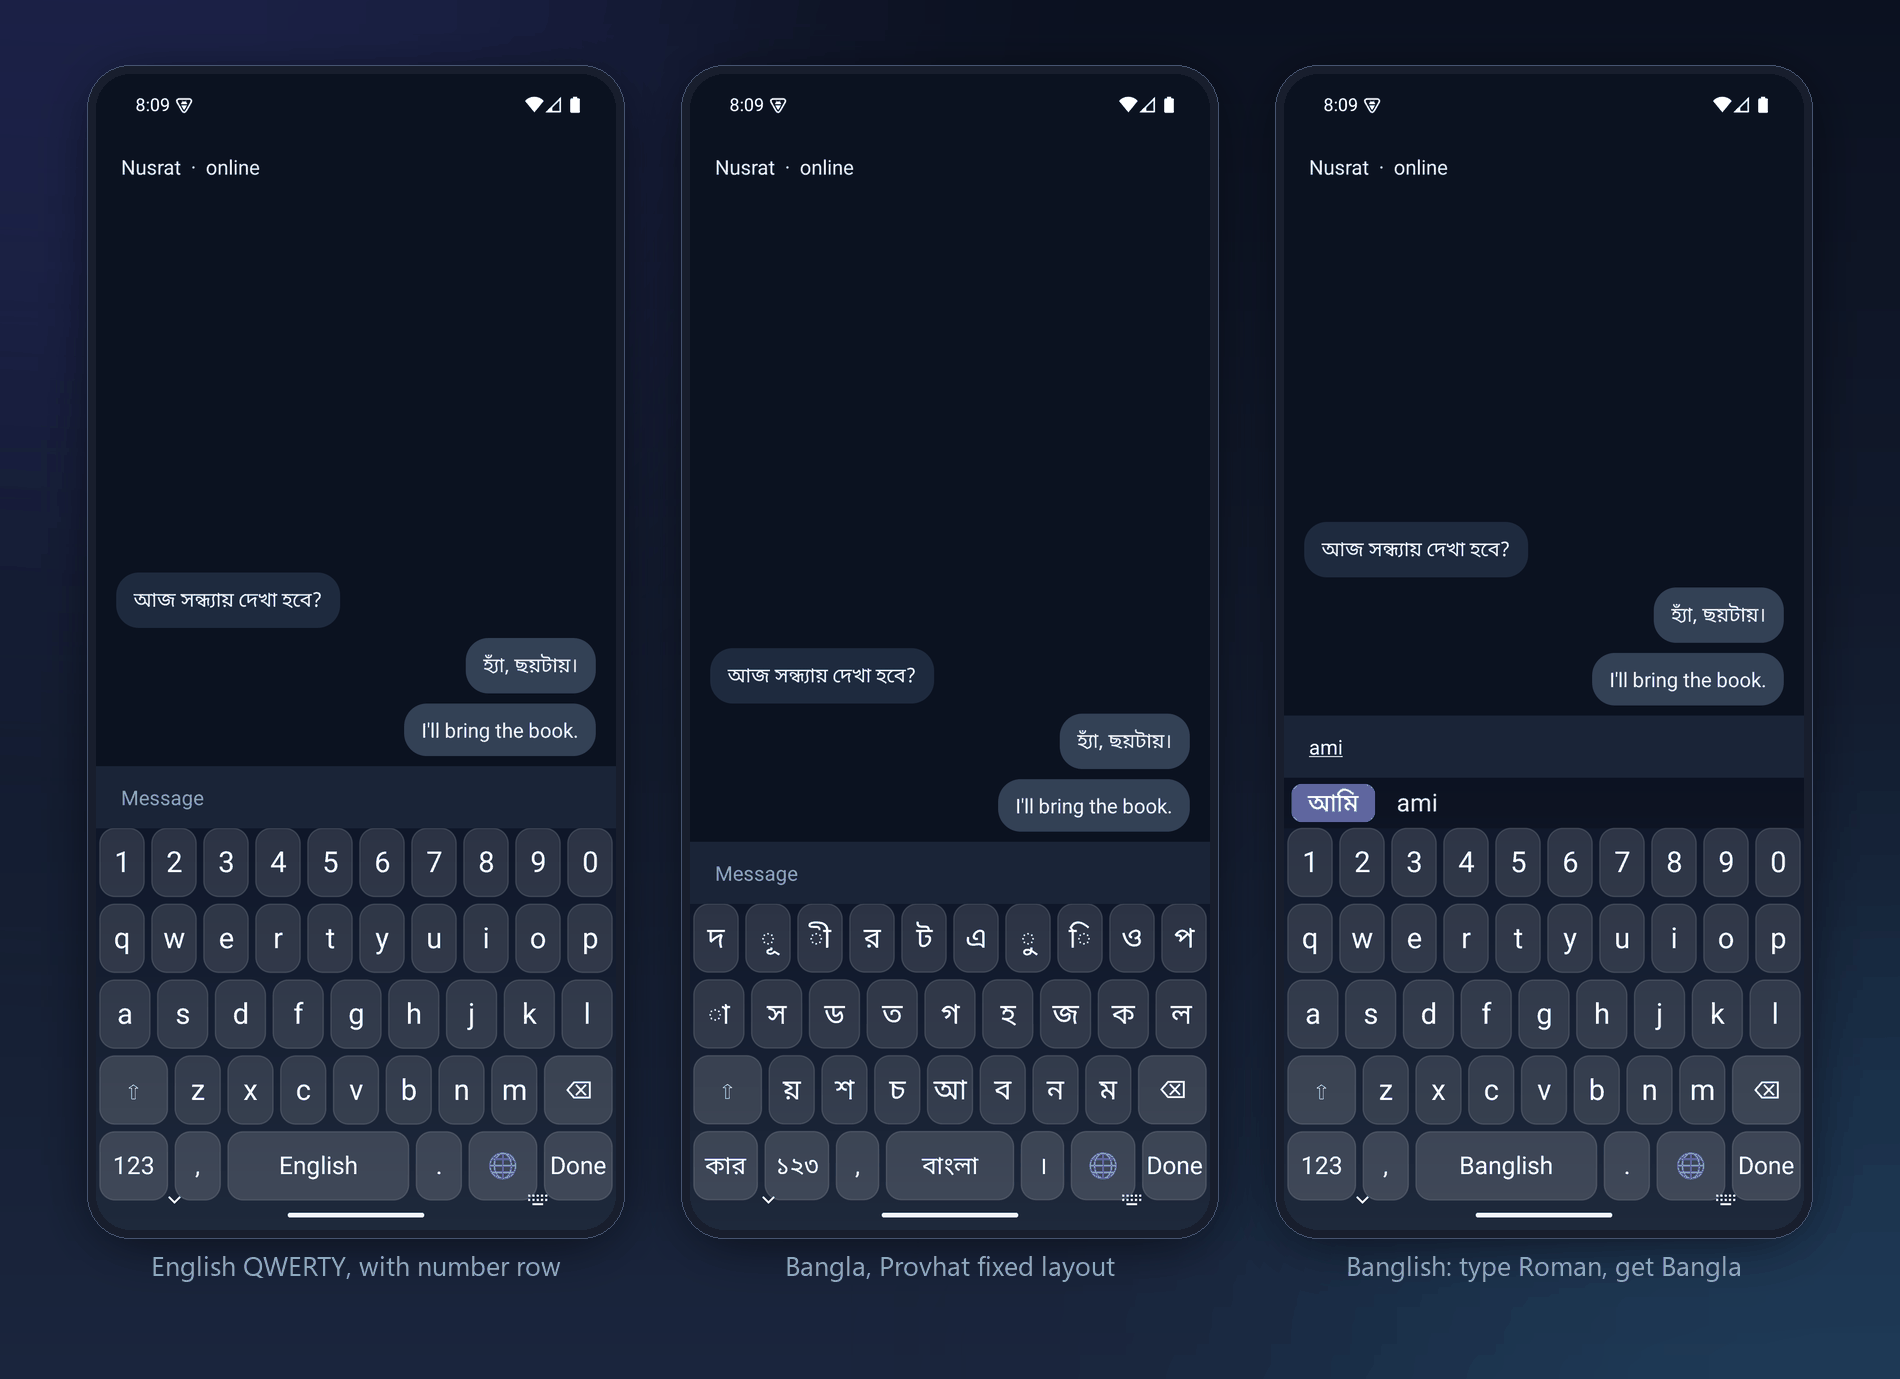
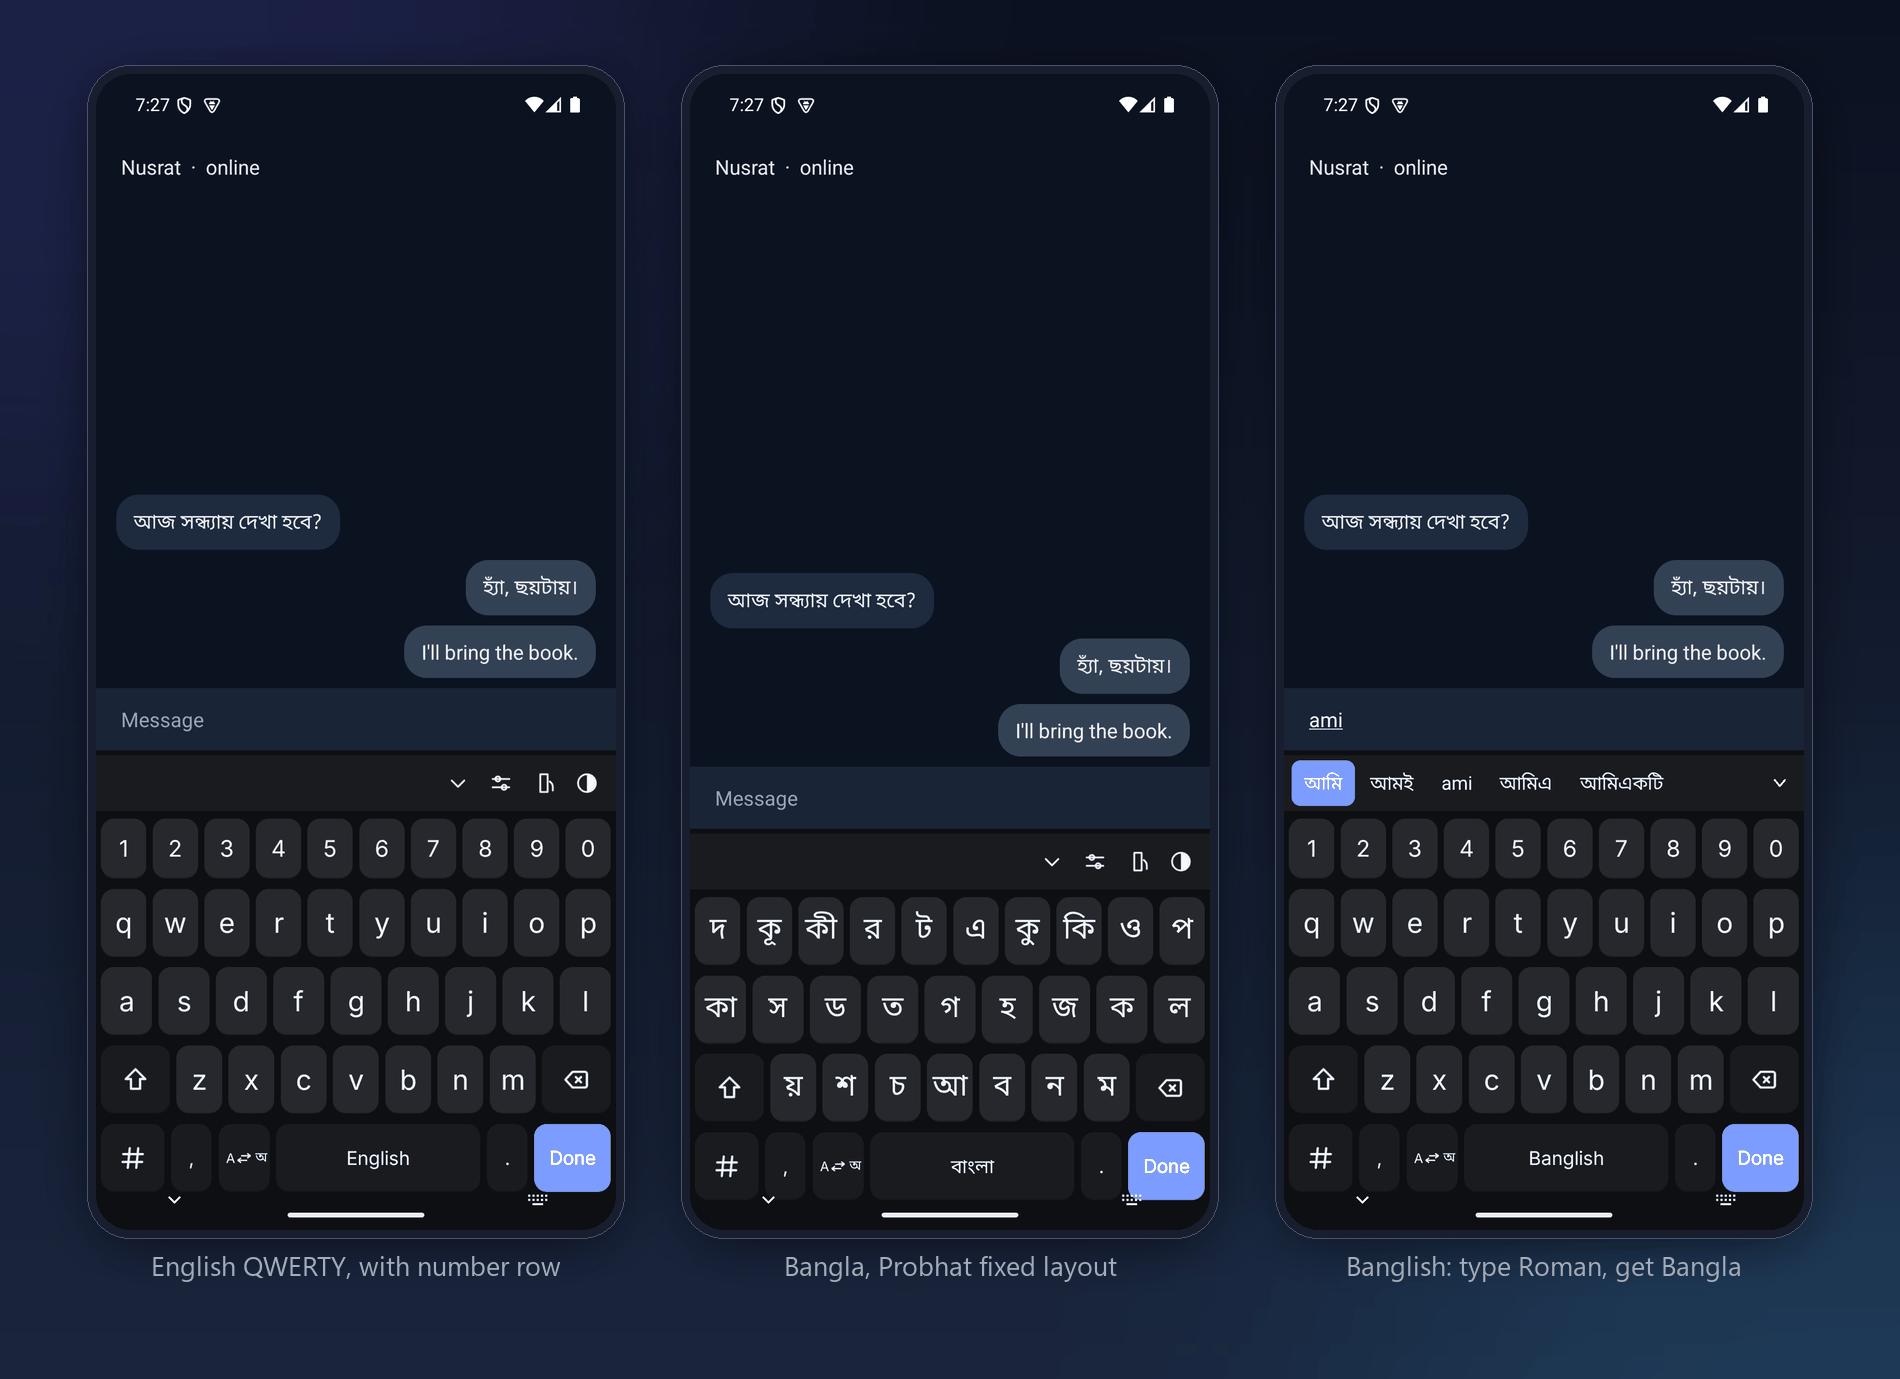
docs: describe Banglish v2 and the thirteen-theme gallery
README said twenty-four themes from AMOLED Black to Rose Gold, a set replaced in 0.3.0; the screenshot table also pointed at a duplicate onboarding capture and two 0.2.0 images. Rebuilt the composites from the current captures, documented the shipped word list, and updated the screenshot script to the current theme names.

diff --git a/scripts/compose_screenshots.py b/scripts/compose_screenshots.py
@@ -11,7 +11,7 @@ Outputs : docs/screenshots/composite-languages.png
 
 Captions are English only on purpose: Pillow has no HarfBuzz shaping here (`raqm` is
 missing), so Bengali drawn into a caption would break its conjuncts. The Bengali in the
-screenshots themselves is real, shaped by the browser.
+screenshots themselves is real, shaped by Android.
 """
 
 import pathlib
@@ -165,12 +165,12 @@ def social_preview(out_name="social-preview.png"):
               font=font("regular", 27), fill=(198, 208, 226))
     draw.text((118, 222), "for Bangla, Banglish and English.",
               font=font("regular", 27), fill=(198, 208, 226))
-    draw.text((118, 276), "English QWERTY  ·  Bangla (Provhat)  ·  Banglish input",
+    draw.text((118, 276), "English QWERTY  ·  Bangla (Probhat)  ·  Banglish input",
               font=font("regular", 21), fill=MUTED)
 
     for index, line in enumerate([
         "No internet permission — nothing leaves your device",
-        "24 themes, each checked for 4.5:1 contrast",
+        "13 themes, each checked for 4.5:1 contrast",
         "Open source, MIT licensed",
     ]):
         y = 336 + index * 38
@@ -178,7 +178,7 @@ def social_preview(out_name="social-preview.png"):
         draw.text((142, y), line, font=font("regular", 21), fill=(214, 222, 236))
 
     # Two phones, the lighter one behind so it reads as a pair.
-    back = load("07-pure-light")
+    back = load("themes/t-studio_light")
     front = load("03-banglish")
     place_phone(canvas, back, 792, 150, 212, radius=24, bezel=6)
     place_phone(canvas, front, 986, 118, 212, radius=24, bezel=6)
@@ -196,19 +196,21 @@ def main():
     written.append(composite(
         ["01-english", "02-bangla", "03-banglish"],
         ["English QWERTY, with number row",
-         "Bangla, Provhat fixed layout",
+         "Bangla, Probhat fixed layout",
          "Banglish: type Roman, get Bangla"],
         "composite-languages.png", cols=3, phone_width=520))
 
     written.append(composite(
-        ["01-english", "09-aurora", "07-pure-light", "08-lava"],
-        ["Midnight Glass (default)", "Aurora Borealis", "Pure Light", "Lava"],
+        ["themes/t-studio_light", "themes/t-aurora", "themes/t-tokyo_night",
+         "themes/t-pixel_arcade"],
+        ["Studio Light", "Aurora", "Tokyo Night", "Pixel Arcade"],
         "composite-themes.png", cols=4, phone_width=400,
-        title="Four of the twenty-four built-in themes"))
+        title="Four of the thirteen built-in themes"))
 
     written.append(composite(
-        ["04-settings", "05-themes", "06-theme-dialog"],
-        ["Settings", "Twenty-four themes, live preview", "Duplicate, export or apply"],
+        ["00-onboarding", "05-themes", "04-candidates"],
+        ["Three-step onboarding", "Thirteen themes, live preview",
+         "Ranked candidates, full panel"],
         "composite-settings.png", cols=3, phone_width=520))
 
     written.append(social_preview())

diff --git a/README.md b/README.md
@@ -20,9 +20,10 @@ people who know the letters, and a phonetic Banglish mode for people who think i
 letters — `ami` becomes আমি. English is one tap away, and every language can be switched
 off individually.
 
-**Themes that look designed, not defaulted.** Twenty-four built-in themes, from AMOLED Black to
-Rose Gold, each checked against a 4.5:1 contrast floor on the actual composited key colour.
-Themes are plain JSON, so you can write your own and share it.
+**Themes that look designed, not defaulted.** Thirteen built-in themes, from Studio Light to
+Pixel Arcade, each checked against a 4.5:1 contrast floor on the actual composited key colour.
+The picker shows a live keyboard preview of every one, and themes are plain JSON, so you can
+write your own and share it.
 
 **Private by design.** The app has no `INTERNET` permission, no analytics, no ads and no
 tracking libraries. Not "we promise not to look" — the operating system prevents the app
@@ -34,15 +35,15 @@ from making a connection at all. See [PRIVACY.md](PRIVACY.md).
 
 | English | Bangla | Banglish |
 |:---:|:---:|:---:|
-| ![English QWERTY with number row](docs/screenshots/01-english.png) | ![Bangla Provhat layout](docs/screenshots/02-bangla.png) | ![Banglish with Bangla suggestions](docs/screenshots/03-banglish.png) |
-| Number row, glass keys | Probhat fixed layout | Type Roman, get Bangla |
+| ![English QWERTY with number row](docs/screenshots/01-english.png) | ![Bangla Probhat layout](docs/screenshots/02-bangla.png) | ![Banglish with Bangla suggestions](docs/screenshots/03-banglish.png) |
+| Number row, Studio Dark | Probhat fixed layout | Type Roman, get Bangla |
 
-![Four of the twenty-four built-in themes](docs/screenshots/composite-themes.png)
+![Four of the thirteen built-in themes](docs/screenshots/composite-themes.png)
 
-| Settings | Theme picker | Theme actions |
+| Onboarding | Themes | All candidates |
 |:---:|:---:|:---:|
-| ![Settings](docs/screenshots/04-settings.png) | ![Theme picker](docs/screenshots/05-themes.png) | ![Theme dialog](docs/screenshots/06-theme-dialog.png) |
-| Languages, theme, typing | Twenty-four themes, live preview | Duplicate, export or apply |
+| ![Three-step onboarding](docs/screenshots/00-onboarding.png) | ![Theme picker](docs/screenshots/05-themes.png) | ![Expanded suggestion panel](docs/screenshots/04-candidates.png) |
+| Three setup steps | Thirteen themes, live preview | Ranked candidates, full panel |
 
 Every image above is a real capture: the debug build running on Android 15, photographed with
 `adb exec-out screencap` while the keyboard was the active input method, in a debug-only demo
@@ -61,9 +62,11 @@ and `scripts/compose_screenshots.py` builds the composites.
 - **Long-press accents.** Hold a vowel for é è ê ë, and digits for `!@#$%` and friends.
 - **Bangla composing.** Kar signs, hasanta joining and one-unit backspace that removes a
   base letter together with its kar.
-- **Suggestion bar** with the Bangla candidate first, the Roman text second, and a tap to
-  commit either.
-- **Twenty-four themes** with live preview, plus duplicate, create, export and import.
+- **Suggestion bar that ranks.** Every reading of your Roman buffer is scored against an
+  83,000-word Bangla frequency list, so common words come first. Expand the strip for the full
+  panel, and let the keyboard remember the words you pick.
+- **Thirteen themes** with a live keyboard preview in the picker, plus duplicate, create,
+  export and import.
 - **Adjustable everything:** key height, spacing, corner radius, font size, bold, borders,
   number row, haptic strength and one-handed mode.
 - **Dark and light,** following the system, with Material You colours on Android 12+.
@@ -143,8 +146,8 @@ settings are in **[docs/THEME_FORMAT.md](docs/THEME_FORMAT.md)**.
 - [x] Language switching and Bangla composing
 - [x] Settings app with onboarding and live theme preview
 - [x] Twenty-four themes, contrast-checked
-- [x] Signed APK, screenshots and the v0.1.0 release
-- [ ] Small handwritten word list to improve Banglish suggestions
+- [x] Signed APK, screenshots and public releases
+- [x] Word list for ranked Banglish suggestions
 - [ ] Automatic reph (র্) in Banglish words like `kormo` → কর্ম
 - [ ] More layouts (Jatiya, phonetic Bangla)
 

diff --git a/docs/THEME_FORMAT.md b/docs/THEME_FORMAT.md
@@ -86,7 +86,7 @@ failure tells you exactly which colour to change and what composited hex it prod
 
 ## Material You
 
-`material_you.json` sets `"dynamic": true`. On Android 12+ `ThemeManager` reads the
+`dynamic.json` sets `"dynamic": true`. On Android 12+ `ThemeManager` reads the
 system palette and replaces the background, key, specialKey, accent and suggestionBar
 colours at runtime. The colours in the file are the **fallback** for Android 8-11 or when
 the system palette is unavailable, and they are what the contrast checker validates — so
@@ -94,20 +94,9 @@ they must stand on their own.
 
 ## Built-in themes
 
-| id                | name            | dark | notes                              |
-|-------------------|-----------------|------|------------------------------------|
-| `midnight_glass`  | Midnight Glass  | yes  | navy gradient, translucent keys    |
-| `pure_light`      | Pure Light      | no   | near-white, dark ink text          |
-| `amoled_black`    | AMOLED Black    | yes  | true #000000 for OLED power saving |
-| `ocean_breeze`    | Ocean Breeze    | yes  | teal gradient                      |
-| `sunset_gradient` | Sunset Gradient | no   | warm orange gradient               |
-| `forest_calm`     | Forest Calm     | yes  | deep green                         |
-| `rose_gold`       | Rose Gold       | no   | blush background, dark text        |
-| `neon_cyber`      | Neon Cyber      | yes  | cyan glow on near-black            |
-| `material_you`    | Material You    | yes  | `dynamic: true`, dark fallback     |
-| `paper_minimal`   | Paper Minimal   | no   | cream, flat, tiny radius           |
-| `royal_purple`    | Royal Purple    | yes  | violet gradient                    |
-| `bangla_flag`     | Bangla Flag     | yes  | deep green with red accent         |
+The thirteen themes that ship in 0.3.0, and the 1.x ids they replace, are listed under
+[The built-in gallery](#the-built-in-gallery) below. A theme id is stable once published:
+renaming one is a migration, not a cosmetic change.
 
 ## Customisation vs theme fields
 
@@ -120,7 +109,7 @@ image brightness/blur sliders. A theme must not be able to change them.
 
 ## User themes
 
-- Duplicating a built-in theme copies its JSON with a new `id` (`midnight_glass_copy`)
+- Duplicating a built-in theme copies its JSON with a new `id` (`studio_dark_copy`)
   and marks it user-owned, so app updates never overwrite it.
 - Export writes the same JSON to a `.json` file; import validates it with the same rules
   as `validate-themes.py` (schema + contrast) before accepting it, so a hand-edited or

diff --git a/docs/BANGLISH.md b/docs/BANGLISH.md
@@ -1,8 +1,14 @@
 # Banglish typing guide
 
 Banglish mode lets you type Bangla with Roman letters. The keyboard keeps what you type as
-a buffer, suggests the Bangla word above the keys, and commits it when you press space or
-punctuation. Tap the Roman chip to keep the English instead.
+a buffer and ranks every possible reading against a shipped Bangla word list; the best
+matches sit above the keys, and space or punctuation commits the first one. Tap the Roman
+chip to keep the English instead, or open the full panel to see every candidate.
+
+The word list is a frequency table of 83,433 Bengali words, built into the app. It is used
+only to rank candidates - it never connects to the network and never rewrites the letters
+you typed. Words you pick yourself can be remembered on the device ("Learn my choices"),
+except while you are typing in a password field.
 
 The rules follow the Avro Phonetic conventions, so muscle memory from other Bangla
 keyboards mostly carries over. The rules live in a data file, not in code, which is why
@@ -66,8 +72,9 @@ At the end of a word it becomes ো, which is why `bhalo` → ভালো.
 
 ## Known differences from Avro Phonetic
 
-Avro resolves a few cases with a word dictionary. Shobdo has no dictionary, so these are
-the honest differences. They are pinned by tests so they cannot change silently.
+Avro resolves a few cases with a word dictionary. Shobdo ships a frequency word list that
+ranks candidates but does not rewrite the transliteration, so these differences remain.
+They are pinned by tests so they cannot change silently.
 
 | You type | Shobdo | Avro | Why |
 |---|---|---|---|
@@ -77,4 +84,5 @@ the honest differences. They are pinned by tests so they cannot change silently.
 | `bhalobasha` | ভালবাশা | ভালোবাসা | `sh` is শ by rule; Avro's dictionary knows the word. Use `bhalobasa` for ভালবাসা. |
 
 If a word comes out wrong, type the conjunct explicitly with `,,` or split the syllable
-with an `o`, and please open an issue with the word — a small word list is planned.
+with an `o`, and please open an issue with the word. A word that is missing from the
+ranking is the most useful report we can get.

diff --git a/CHANGELOG.md b/CHANGELOG.md
@@ -9,7 +9,28 @@ project adheres to [Semantic Versioning](https://semver.org/spec/v2.0.0.html).
 
 ### Added
 
-- No unreleased changes yet.
+- **Banglish v2.** A Bangla frequency word list (83,433 words) now ships inside the app and
+  ranks every reading of the Roman buffer, so everyday words come first. The suggestion strip
+  expands into a full candidate panel, and the words you pick can be remembered on the device.
+- **Thirteen designed themes**, replacing the old gallery: Studio Light, Studio Dark, Onyx,
+  Frost, Aurora, Sakura, Tokyo Night, Pixel Arcade, Cassette, Obsidian Gold, Cloudline,
+  Evergreen and Dynamic (Material You on Android 12+). The picker shows a live keyboard
+  preview of every one.
+- Bundled Inter, Noto Sans Bengali and Pixelify Sans, with their OFL licence files.
+- Theme schema 2: key depth, key shape, a per-theme font role, a secondary accent and a
+  pressed-key scale. Schema 1 files still load.
+- Banglish learning controls: remember my choices, and clear the learned words.
+
+### Changed
+
+- The keyboard is rebuilt on one spacing grid, with a taller tool strip, a new icon set,
+  press animation, and hit areas that match what is drawn.
+- Retired 1.x theme ids are migrated to the closest new theme, so an existing selection
+  survives the update instead of jumping to the first entry.
+
+### Fixed
+
+- Key labels, icons and tool-strip controls line up on the same grid at every font scale.
 
 ## [0.2.0] - 2026-10-29
 
@@ -60,6 +81,7 @@ access at all.
 - A few dictionary-dependent spellings differ from Avro; see
   [docs/BANGLISH.md](docs/BANGLISH.md).
 
-[Unreleased]: https://github.com/34rns/shobdo-keyboard/compare/v0.2.0...HEAD
+[Unreleased]: https://github.com/34rns/shobdo-keyboard/compare/v0.3.0...HEAD
+[0.3.0]: https://github.com/34rns/shobdo-keyboard/releases/tag/v0.3.0
 [0.2.0]: https://github.com/34rns/shobdo-keyboard/releases/tag/v0.2.0
 [0.1.0]: https://github.com/34rns/shobdo-keyboard/releases/tag/v0.1.0

diff --git a/docs/LAYOUT_FORMAT.md b/docs/LAYOUT_FORMAT.md
@@ -106,8 +106,8 @@ belong to P3 (language switching) and the emoji page.
 5. `symbols , space . enter`
 
 Four rows cannot hold a full QWERTY plus shift, backspace, space, enter, comma,
-period and the symbols key, so the number row counts as the optional fifth. See
-`.ai/DECISIONS.md` (2026-10-28).
+period and the symbols key, so the number row counts as the optional fifth and can be
+hidden by a setting.
 
 ## Bangla pages
 
